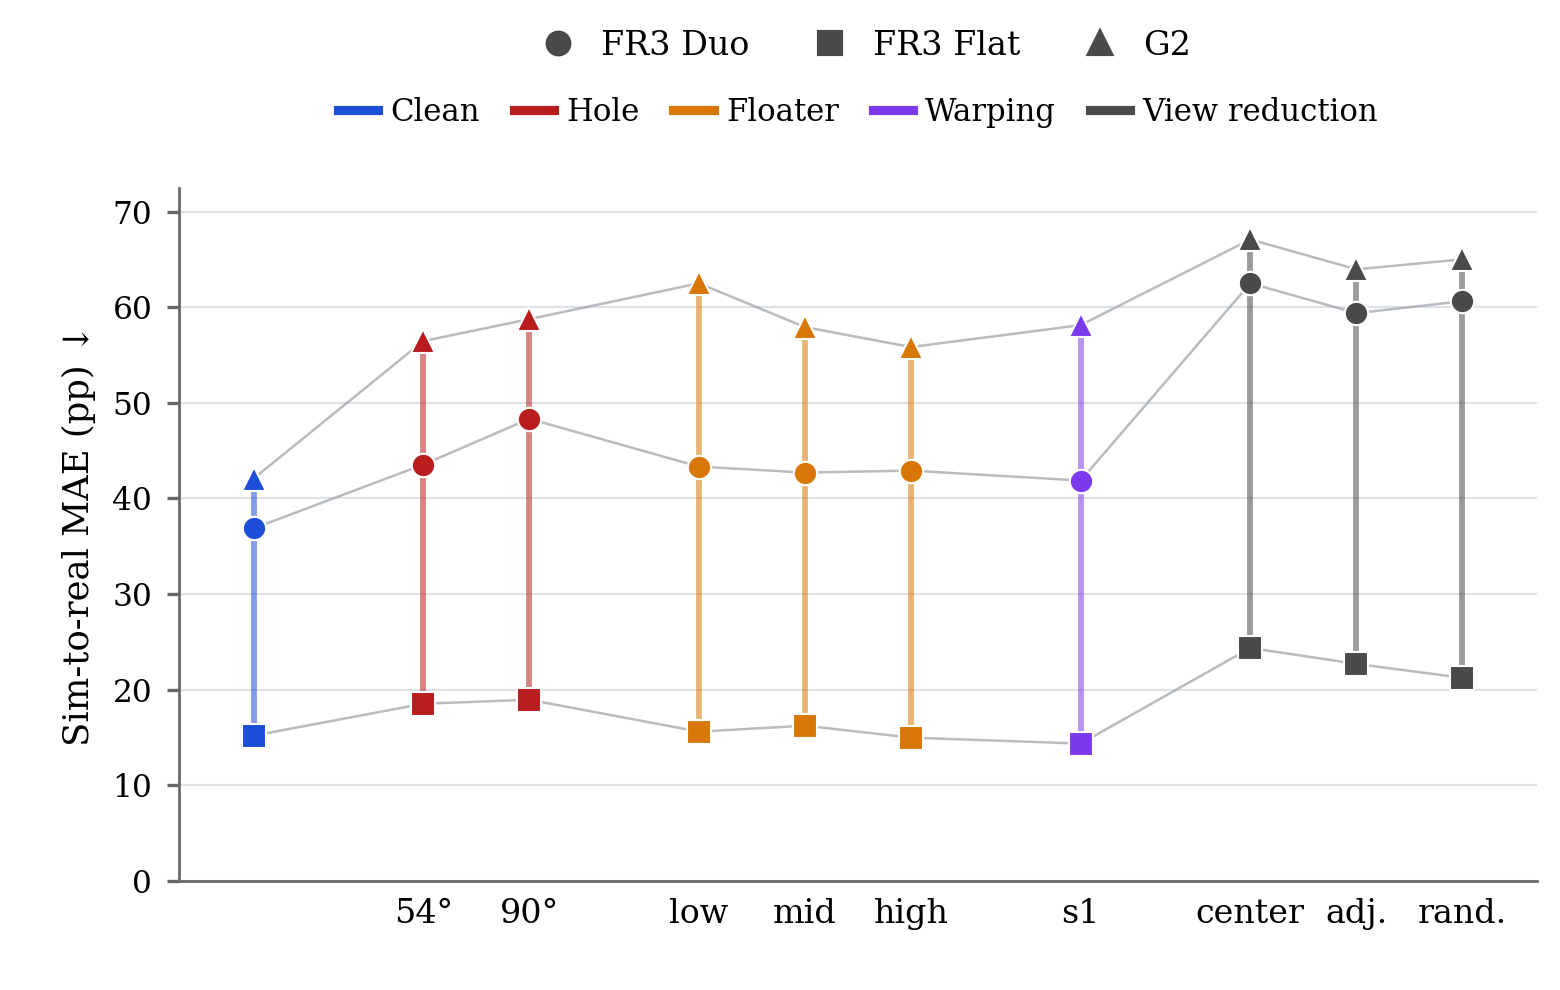
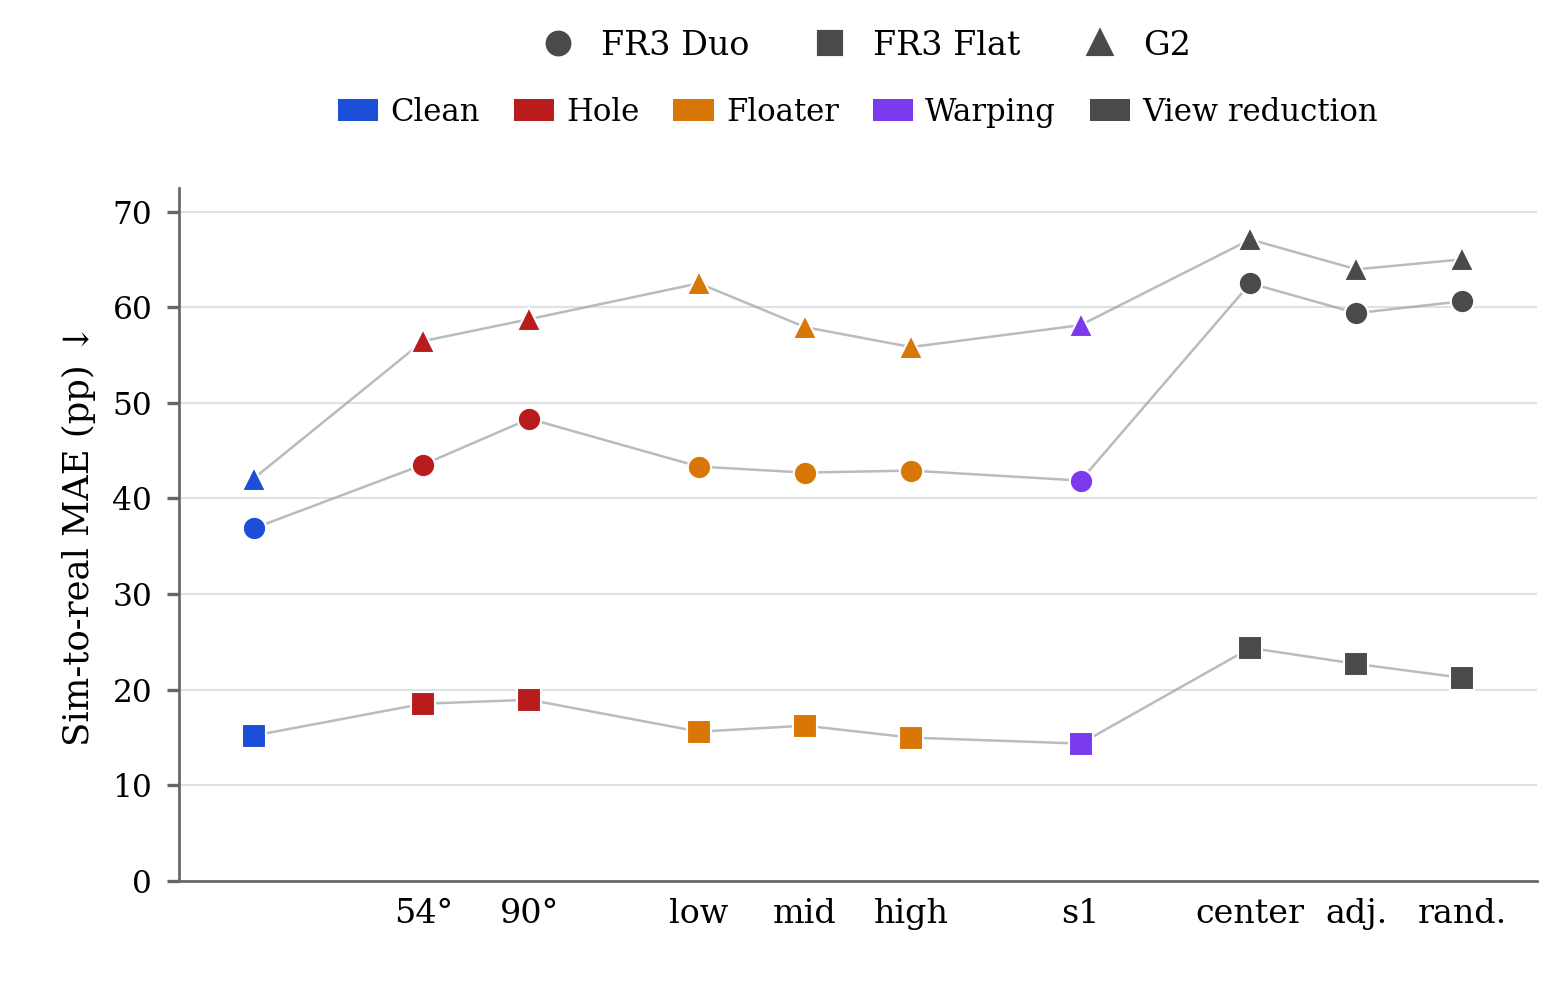
Drop the colored range bars from the MAE plot

diff --git a/results/scripts/plot_mae.py b/results/scripts/plot_mae.py
@@ -24,6 +24,7 @@ import matplotlib
 matplotlib.use("Agg")
 import matplotlib.pyplot as plt
 from matplotlib.lines import Line2D
+from matplotlib.patches import Patch
 
 from style import REAL_COLOR, RIG_NAMES, apply_icra_style, savefig, style_axes
 
@@ -95,9 +96,9 @@ def short_label(condition):
 
 
 def plot(summary, output_path):
-    """Conditions run across the page, MAE runs up it. Each condition is one
-    vertical line spanning its scenes, colored by disturbance type; each scene
-    has its own marker and a faint trace so it can be followed across."""
+    """Conditions run across the page, MAE runs up it. Markers are colored by
+    disturbance type and shaped by scene; a faint trace follows each scene across
+    the conditions."""
     conditions = list(dict.fromkeys(r["condition"] for r in summary))
     scenes = list(dict.fromkeys(r["scene"] for r in summary))
     lookup = {(r["condition"], r["scene"]): r["mae_pp"] for r in summary}
@@ -119,9 +120,6 @@ def plot(summary, output_path):
         ax.plot(*zip(*points), color="#9aa0a6", linewidth=0.6, alpha=0.7, zorder=1)
     for condition in conditions:
         colour = FAMILY_COLORS.get(family(condition), REAL_COLOR)
-        values = [lookup[(condition, s)] for s in scenes if (condition, s) in lookup]
-        ax.plot([slots[condition]] * 2, [min(values), max(values)], color=colour, linewidth=1.4,
-                alpha=0.55, zorder=2, solid_capstyle="butt")
         for i, scene in enumerate(scenes):
             if (condition, scene) in lookup:
                 ax.plot([slots[condition]], [lookup[(condition, scene)]], MARKERS[i % len(MARKERS)],
@@ -137,8 +135,7 @@ def plot(summary, output_path):
                             linestyle="None", markersize=5.2, label=RIG_NAMES.get(s, s))
                      for i, s in enumerate(scenes)]
     present = list(dict.fromkeys(family(c) for c in conditions))
-    family_handles = [Line2D([], [], color=FAMILY_COLORS.get(f, REAL_COLOR), linewidth=2.2, label=f)
-                      for f in present]
+    family_handles = [Patch(facecolor=FAMILY_COLORS.get(f, REAL_COLOR), label=f) for f in present]
     fig.legend(handles=scene_handles, loc="upper center", bbox_to_anchor=(0.55, 1.0),
                ncol=len(scene_handles), frameon=False, fontsize=8, handletextpad=0.3,
                columnspacing=1.4)

diff --git a/README.md b/README.md
@@ -48,7 +48,7 @@ Sim pi_1 vs. pi_2, two-sided Fisher exact test (alpha = 0.05), Clean vs. each di
 
 Mean absolute error between simulated and real success rates, in percentage points, averaged with equal weight over the 6 task x policy cells of each scene: MAE(scene, condition) = (1/6) Σ |100·sim_success/80 − 100·real_success/20|. Real is the Clean real measurement for every condition.
 
-![Sim-to-real MAE per scene and condition](results/figures/mae.png?v=fe789484)
+![Sim-to-real MAE per scene and condition](results/figures/mae.png?v=96ad6854)
 
 Values: [`results/data/mae.csv`](results/data/mae.csv)
 
